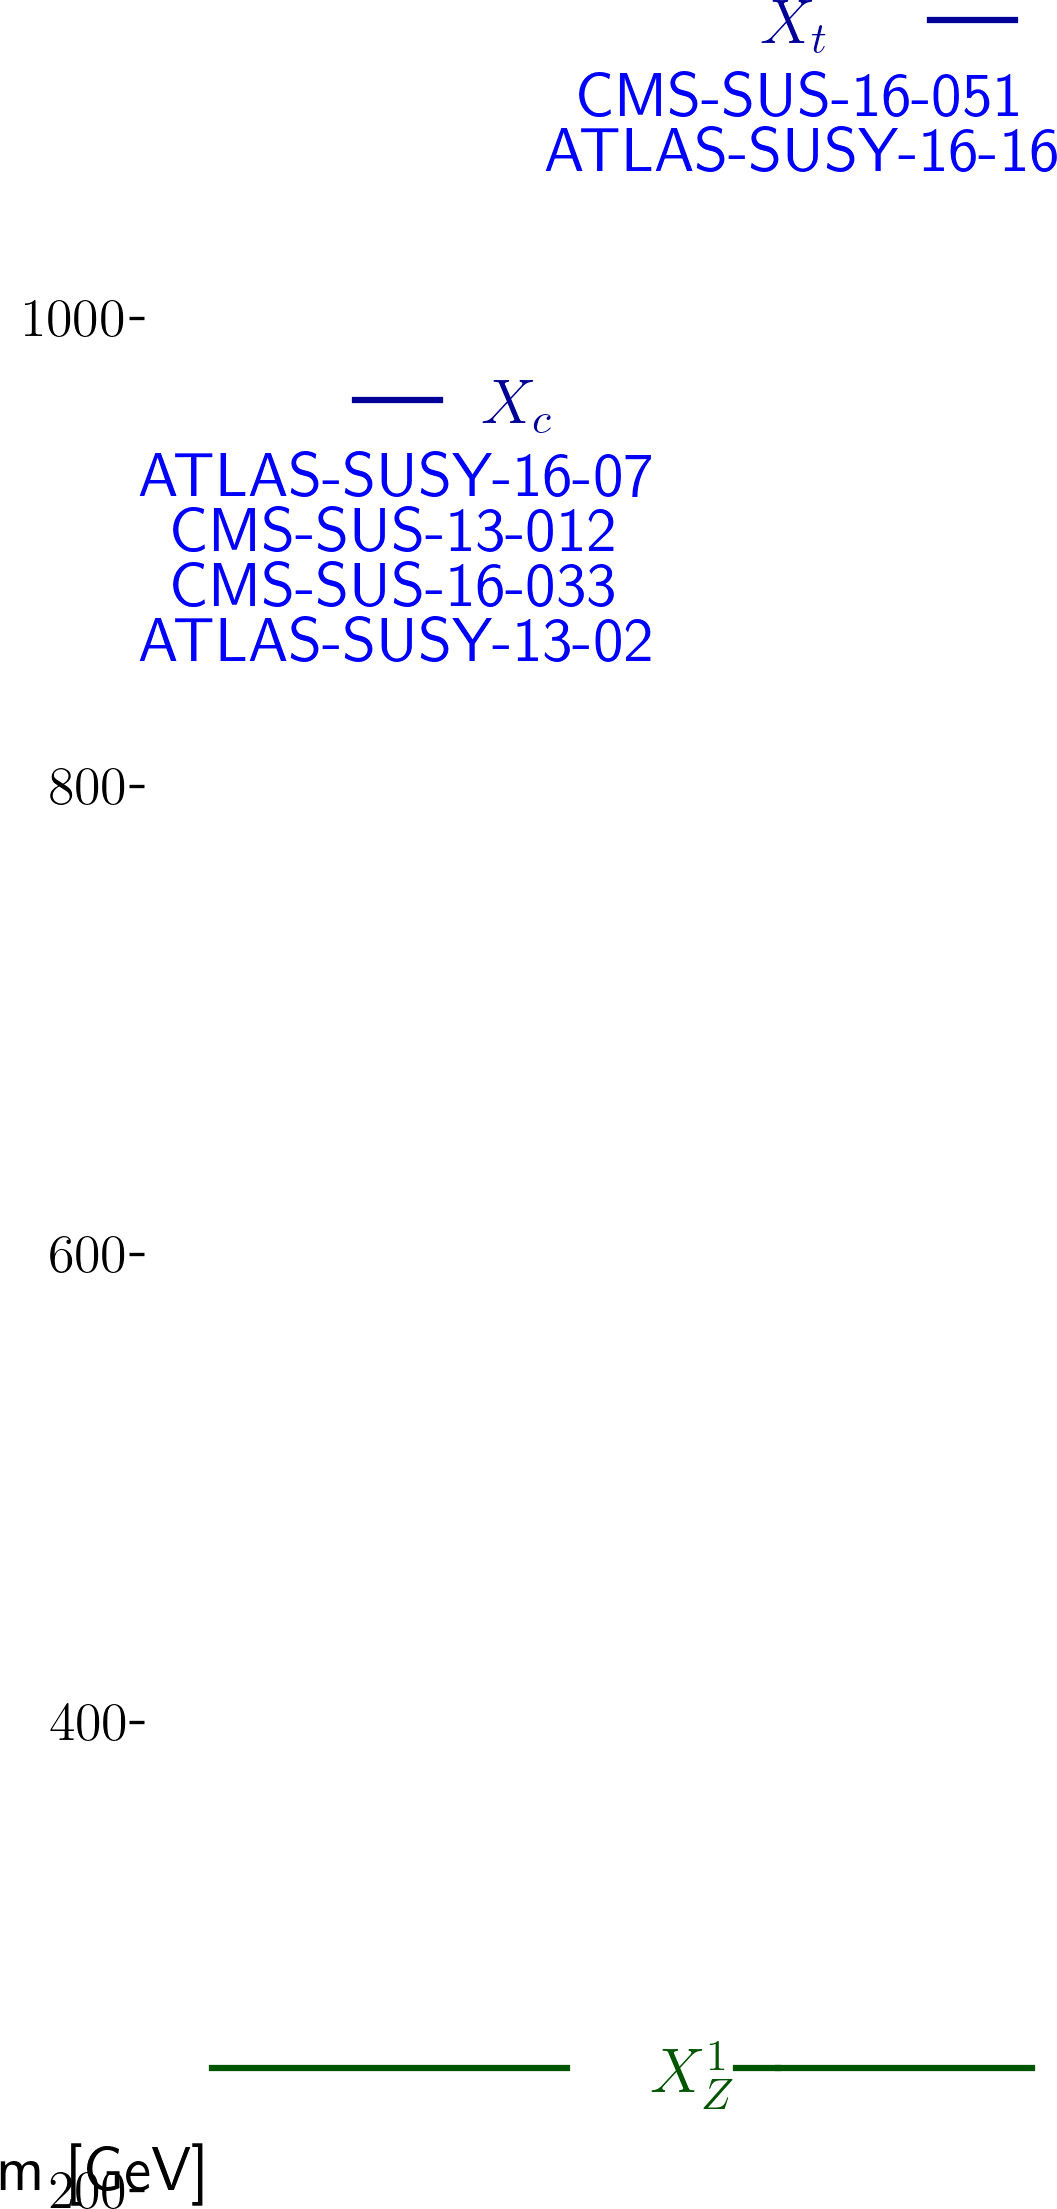
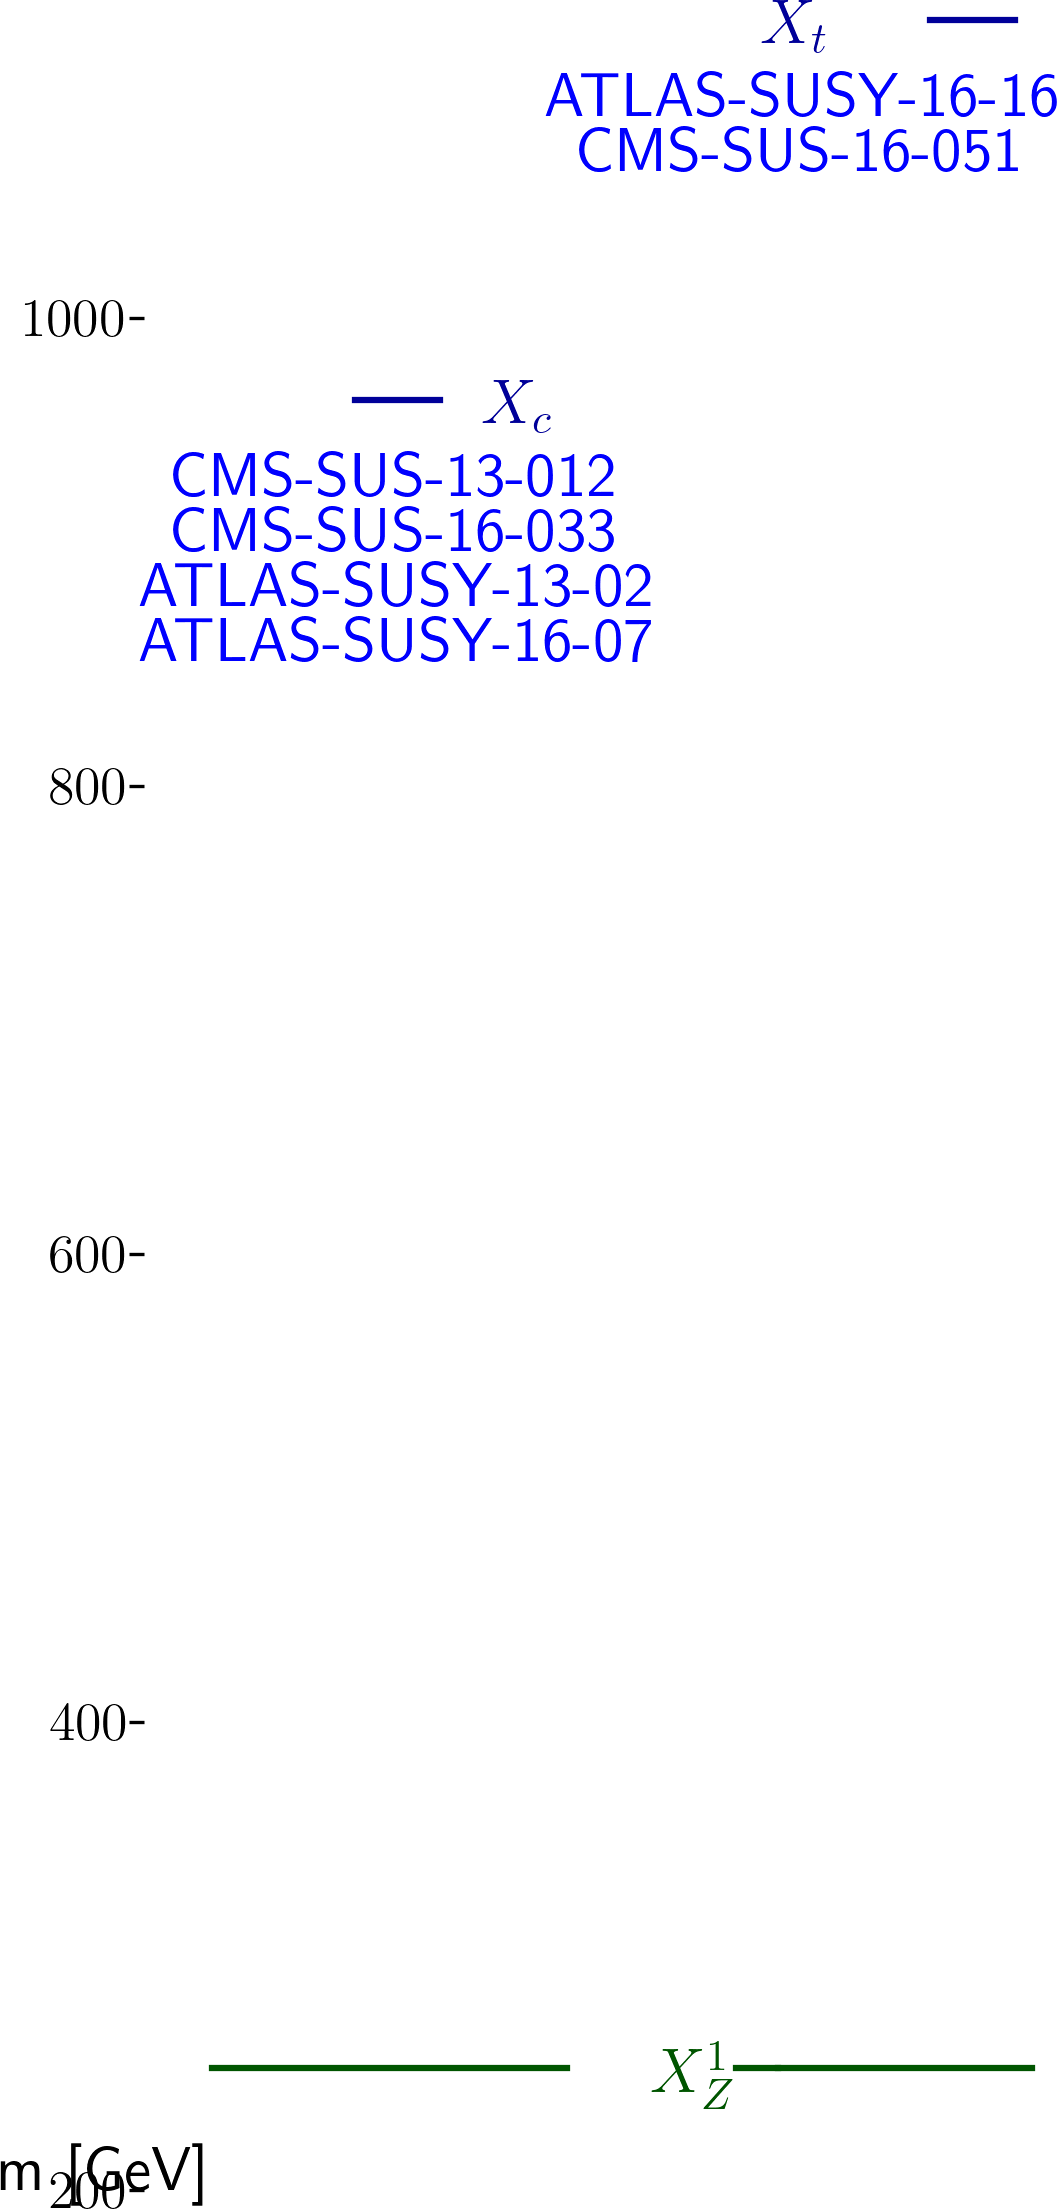
automated update by plotHiscore.py to /scratch-cbe/users/wolfgan.waltenberger/git/smodels.github.io/protomodels

Changed region(s): [[0.1249, 0.1874, 0.6244, 0.3124], [0.4995, 0.0312, 1.0, 0.0937]]

diff --git a/protomodels/2020_PioneerStudy/iced10/index.html b/protomodels/2020_PioneerStudy/iced10/index.html
@@ -3,15 +3,15 @@
 <center>
 <table><td><h1>Current best protomodel: <i>K</i>=21.37</h1><td><img height=60px src=https://smodels.github.io/pics/banner.png></table>
 </center>
-<b><a href=./hiscore.slha>ProtoModel</a> <a href=./pmodel.py>(dict)</a> produced with <a href=https://smodels.github.io/docs/Validation124iced10>database v1.2.4iced10</a>, combination strategy <a href=./matrix_aggressive.png>aggressive</a> in walker 28 step 330.</b> <i>K</i> plots for: <a href=./M1000022.png?15422816>X<sub>Z</sub><sup>1</sup></a>, <a href=./M1000006.png?15422816>X<sub>t</sub></a>, <a href=./M1000004.png?15422816>X<sub>c</sub></a>. HPD plots for: <a href=./llhd1000006.png?15422816>X<sub>t</sub></a>, <a href=./llhd1000004.png?15422816>X<sub>c</sub></a>. SSM plots for: <a href=./ssm_-1000006_1000006.png?15422816>(x&#772;<sub>t</sub>,X<sub>t</sub>)</a><br>
+<b><a href=./hiscore.slha>ProtoModel</a> <a href=./pmodel.py>(dict)</a> produced with <a href=https://smodels.github.io/docs/Validation124iced10>database v1.2.4iced10</a>, combination strategy <a href=./matrix_aggressive.png>aggressive</a> in walker 28 step 330.</b> <i>K</i> plots for: <a href=./M1000022.png?15489355>X<sub>Z</sub><sup>1</sup></a>, <a href=./M1000006.png?15489355>X<sub>t</sub></a>, <a href=./M1000004.png?15489355>X<sub>c</sub></a>. HPD plots for: <a href=./llhd1000006.png?15489355>X<sub>t</sub></a>, <a href=./llhd1000004.png?15489355>X<sub>c</sub></a>. SSM plots for: <a href=./ssm_-1000006_1000006.png?15489355>(x&#772;<sub>t</sub>,X<sub>t</sub>)</a><br>
 <table width=80%>
 <tr><td>
 <br><b>25 predictions available. Highest r values are:</b><br><ul>
 <li><a href=https://atlas.web.cern.ch/Atlas/GROUPS/PHYSICS/PAPERS/SUSY-2016-26/>ATLAS-SUSY-2016-26</a>:T2cc r=1.14, r<sub>exp</sub>=N/A<br>
-<li><a href=https://atlas.web.cern.ch/Atlas/GROUPS/PHYSICS/PAPERS/SUSY-2016-07/>ATLAS-SUSY-2016-07</a>:T2 r=0.87, r<sub>exp</sub>=N/A<br>
-<li><a href=http://cms-results.web.cern.ch/cms-results/public-results/publications/SUS-19-006/index.html>CMS-SUS-19-006</a>:T2tt r=0.75, r<sub>exp</sub>=N/A<br>
-<li><a href=http://cms-results.web.cern.ch/cms-results/public-results/publications/SUS-16-049/index.html>CMS-SUS-16-049</a>:T2tt r=0.72, r<sub>exp</sub>=N/A<br>
-<li><a href=http://cms-results.web.cern.ch/cms-results/public-results/publications/SUS-16-050/index.html>CMS-SUS-16-050</a>:T2tt r=0.72, r<sub>exp</sub>=N/A<br>
+<li><a href=https://atlas.web.cern.ch/Atlas/GROUPS/PHYSICS/PAPERS/SUSY-2016-07/>ATLAS-SUSY-2016-07</a>:T2 r=0.87, r<sub>exp</sub>=1.60<br>
+<li><a href=http://cms-results.web.cern.ch/cms-results/public-results/publications/SUS-19-006/index.html>CMS-SUS-19-006</a>:T2tt r=0.75, r<sub>exp</sub>=2.28<br>
+<li><a href=http://cms-results.web.cern.ch/cms-results/public-results/publications/SUS-16-049/index.html>CMS-SUS-16-049</a>:T2tt r=0.72, r<sub>exp</sub>=2.06<br>
+<li><a href=http://cms-results.web.cern.ch/cms-results/public-results/publications/SUS-16-050/index.html>CMS-SUS-16-050</a>:T2tt r=0.72, r<sub>exp</sub>=2.05<br>
 </ul>
 <td><br><b>K values without analyses: (contribution)</b><br>
 <ul>
@@ -21,11 +21,11 @@
 <li> <a href=https://atlas.web.cern.ch/Atlas/GROUPS/PHYSICS/PAPERS/SUSY-2013-02/>ATLAS-SUSY-2013-02</a>: 10.09 (14%)
 <li> <a href=https://atlas.web.cern.ch/Atlas/GROUPS/PHYSICS/PAPERS/SUSY-2016-07/>ATLAS-SUSY-2016-07</a>: 5.33 (20%)
 <li> <a href=https://atlas.web.cern.ch/Atlas/GROUPS/PHYSICS/PAPERS/SUSY-2016-16/>ATLAS-SUSY-2016-16</a>: 1.87 (24%)
-<td><img width=600px src=./texdoc.png?1608422816>
-<br><font size=-1>Last updated: Sun Dec 20 01:06:56 2020</font>
+<td><img width=600px src=./texdoc.png?1608489355>
+<br><font size=-1>Last updated: Sun Dec 20 19:35:55 2020</font>
 </table><table style="width:80%">
-<td width=45%><img height=580px src=./ruler.png?1608422816><td width=55%><img height=380px src=./decays.png?1608422816>
-<font size=-3><iframe type="text/html" height="220px" width="100%s" frameborder="0" src="./rawnumbers.html?1608422816"></iframe></font>
+<td width=45%><img height=580px src=./ruler.png?1608489355><td width=55%><img height=380px src=./decays.png?1608489355>
+<font size=-3><iframe type="text/html" height="220px" width="100%s" frameborder="0" src="./rawnumbers.html?1608489355"></iframe></font>
 </table>
 </body>
 </html>

diff --git a/protomodels/2020_PioneerStudy/iced10/pmodel.py b/protomodels/2020_PioneerStudy/iced10/pmodel.py
@@ -1,1 +1,1 @@
-{'masses': {1000022: 242.145, 1000006: 1117.279, 1000004: 954.991}, 'ssmultipliers': {(1000022, 1000022): 1.477, (1000006, 1000006): 0.872, (-1000006, 1000006): 2.074, (-1000006, -1000006): 1.082, (1000006, 1000022): 2.077, (-1000006, 1000022): 2.077, (1000004, 1000004): 2.131, (-1000004, 1000004): 2.131, (-1000004, -1000004): 2.131, (1000004, 1000022): 2.131, (-1000004, 1000022): 2.131, (1000004, 1000006): 2.131, (-1000004, 1000006): 2.131, (-1000006, 1000004): 2.131, (-1000006, -1000004): 2.131}, 'decays': {1000022: {}, 1000006: {(1000022, 6): 1.0}, 1000004: {(1000022, 4): 1.0}}, 'timestamp': 'Sun Dec 20 01:06:44 2020', 'Z': 4.97, 'K': 21.373, 'walkerid': 28, 'step': 330, 'codever': '1.0', 'dbver': '1.2.4iced10'}
+{'masses': {1000022: 242.145, 1000006: 1117.279, 1000004: 954.991}, 'ssmultipliers': {(1000022, 1000022): 1.477, (1000006, 1000006): 0.872, (-1000006, 1000006): 2.074, (-1000006, -1000006): 1.082, (1000006, 1000022): 2.077, (-1000006, 1000022): 2.077, (1000004, 1000004): 2.131, (-1000004, 1000004): 2.131, (-1000004, -1000004): 2.131, (1000004, 1000022): 2.131, (-1000004, 1000022): 2.131, (1000004, 1000006): 2.131, (-1000004, 1000006): 2.131, (-1000006, 1000004): 2.131, (-1000006, -1000004): 2.131}, 'decays': {1000022: {}, 1000006: {(1000022, 6): 1.0}, 1000004: {(1000022, 4): 1.0}}, 'timestamp': 'Sun Dec 20 19:35:41 2020', 'Z': 4.97, 'K': 21.373, 'walkerid': 28, 'step': 330, 'codever': '1.0', 'dbver': '1.2.4iced10'}
